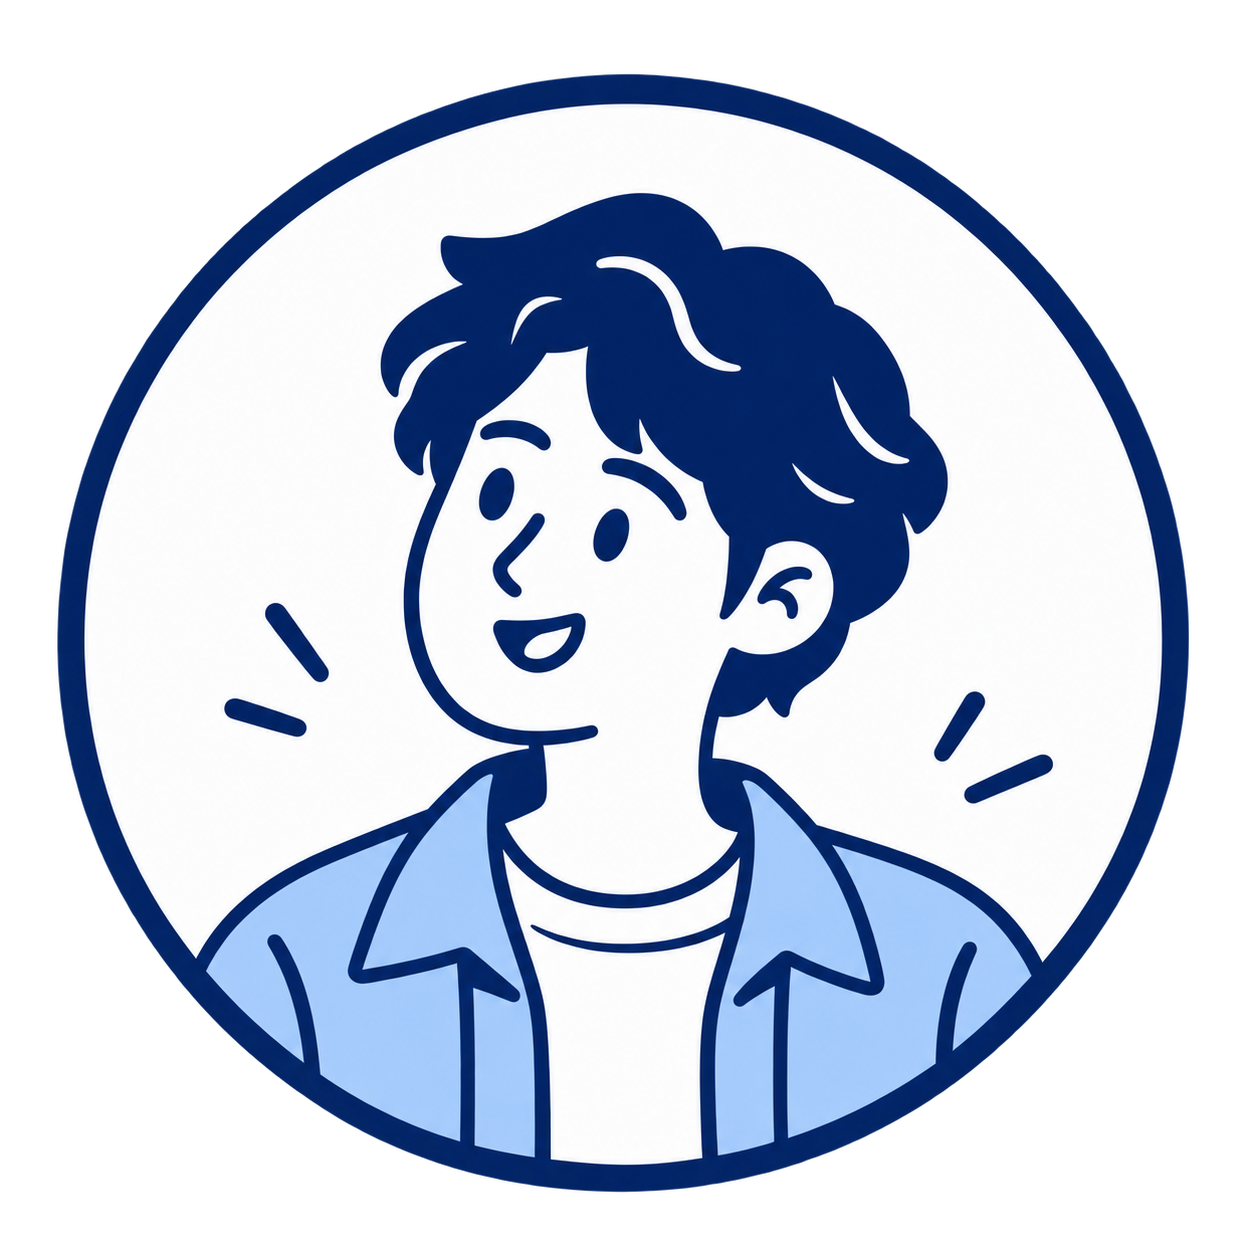
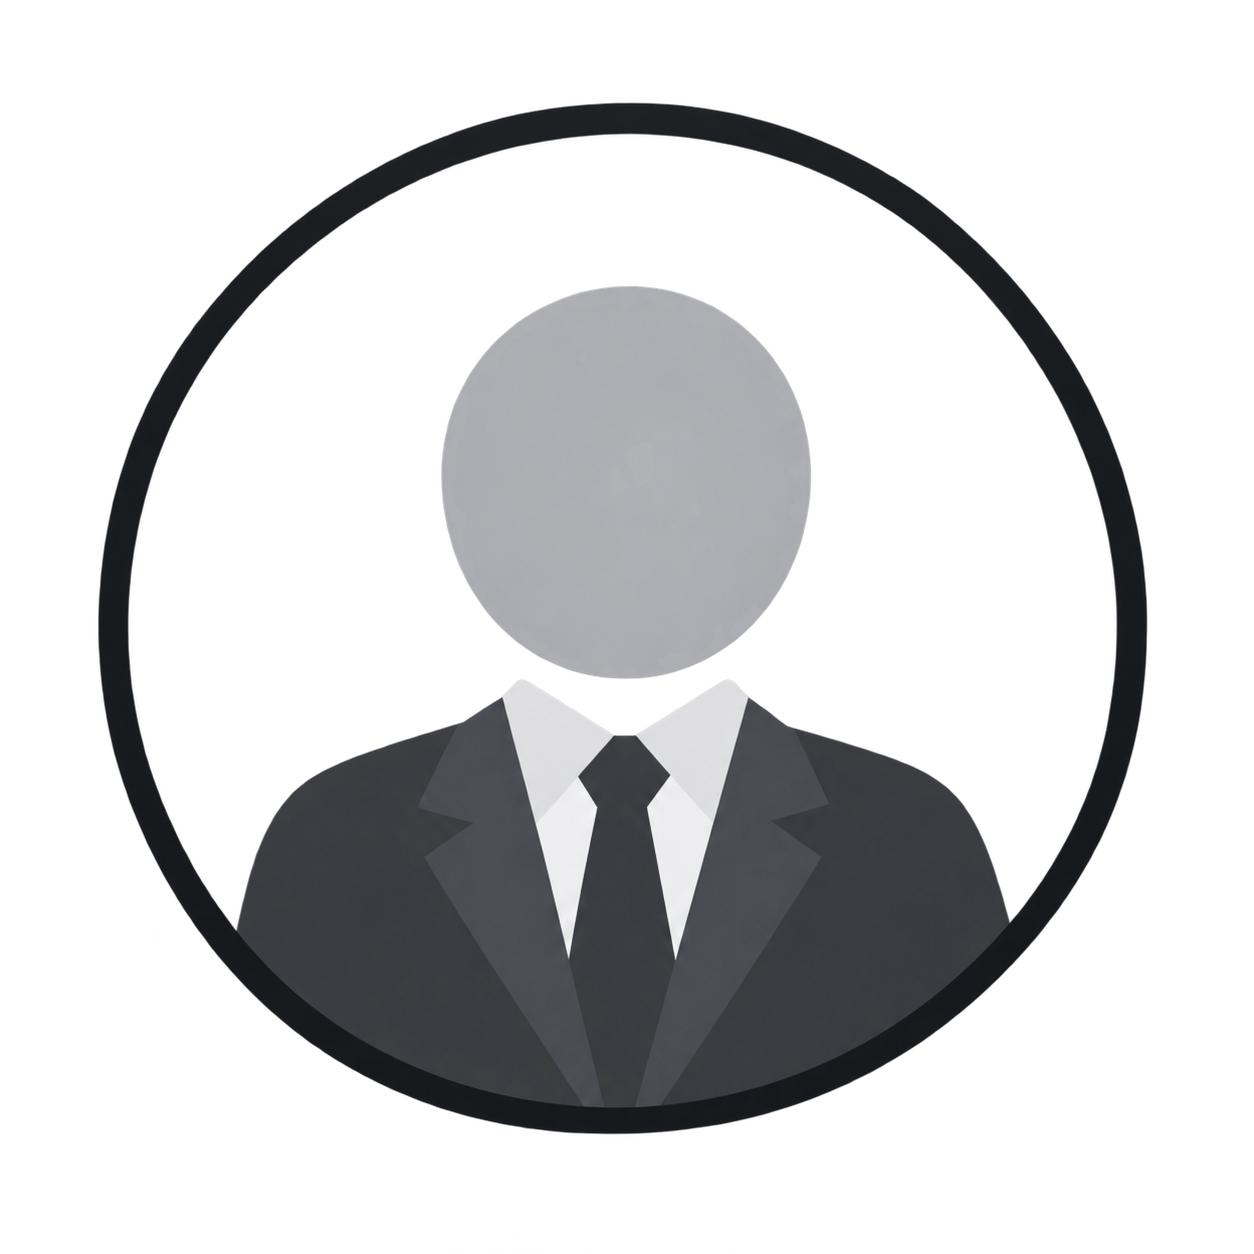
User profile, settings, tasks, files, and transactions navigation pages with associated assets

diff --git a/mobile_app/lib/mobile_app/more/settings_page.dart b/mobile_app/lib/mobile_app/more/settings_page.dart
@@ -4,6 +4,7 @@ import 'package:google_fonts/google_fonts.dart';
 import '../home/home_page.dart';
 import '../widgets/custom_bottom_nav_bar.dart';
 import 'two_factor_auth_page.dart';
+import '../authentication/signup_page.dart';
 class SettingsPage extends StatefulWidget {
   const SettingsPage({super.key});
 
@@ -155,49 +156,98 @@ class _SettingsPageState extends State<SettingsPage> {
     showDialog(
       context: context,
       builder: (context) {
-        return AlertDialog(
-          shape: RoundedRectangleBorder(
-            borderRadius: BorderRadius.circular(16),
-          ),
-          title: Text(
-            'Delete Account',
-            style: GoogleFonts.poppins(
-              fontWeight: FontWeight.bold,
-              color: Colors.red,
-            ),
-          ),
-          content: Text(
-            'Are you sure you want to permanently delete your account? This action cannot be undone.',
-            style: GoogleFonts.poppins(),
-          ),
-          actions: [
-            TextButton(
-              onPressed: () => Navigator.pop(context),
-              child: Text(
-                'Cancel',
-                style: GoogleFonts.poppins(color: Colors.grey.shade700),
-              ),
-            ),
-            ElevatedButton(
-              onPressed: () {
-                Navigator.pop(context);
-                ScaffoldMessenger.of(context).showSnackBar(
-                  SnackBar(
-                    content: Text(
-                      'Account deleted (Simulation)',
-                      style: GoogleFonts.poppins(),
+        return Dialog(
+          backgroundColor: Colors.transparent,
+          elevation: 0,
+          child: Stack(
+            clipBehavior: Clip.none,
+            alignment: Alignment.topCenter,
+            children: [
+              Container(
+                margin: const EdgeInsets.only(top: 26),
+                padding: const EdgeInsets.only(top: 32, left: 24, right: 24, bottom: 16),
+                decoration: BoxDecoration(
+                  color: Colors.white,
+                  borderRadius: BorderRadius.circular(8),
+                ),
+                child: Column(
+                  mainAxisSize: MainAxisSize.min,
+                  children: [
+                    Text(
+                      'Delete Account',
+                      style: GoogleFonts.poppins(
+                        fontWeight: FontWeight.bold,
+                        fontSize: 20,
+                        color: const Color(0xFF3B4058),
+                      ),
                     ),
-                    backgroundColor: Colors.red,
-                  ),
-                );
-              },
-              style: ElevatedButton.styleFrom(backgroundColor: Colors.red),
-              child: Text(
-                'Delete',
-                style: GoogleFonts.poppins(color: Colors.white),
+                    const SizedBox(height: 12),
+                    Text(
+                      'Are you certain you wish to permanently\ndelete your account?',
+                      textAlign: TextAlign.center,
+                      style: GoogleFonts.poppins(
+                        fontSize: 14,
+                        color: Colors.grey.shade600,
+                      ),
+                    ),
+                    const SizedBox(height: 32),
+                    Row(
+                      mainAxisAlignment: MainAxisAlignment.spaceBetween,
+                      children: [
+                        TextButton(
+                          onPressed: () => Navigator.pop(context),
+                          child: Text(
+                            'CANCEL',
+                            style: GoogleFonts.poppins(
+                              fontWeight: FontWeight.bold,
+                              color: const Color(0xFF3B4058),
+                            ),
+                          ),
+                        ),
+                        TextButton(
+                          onPressed: () {
+                            Navigator.pushAndRemoveUntil(
+                              context,
+                              MaterialPageRoute(
+                                builder: (context) => const SignupPage(),
+                              ),
+                              (route) => false,
+                            );
+                          },
+                          child: Text(
+                            'DELETE',
+                            style: GoogleFonts.poppins(
+                              fontWeight: FontWeight.bold,
+                              color: const Color(0xFFD3455B),
+                            ),
+                          ),
+                        ),
+                      ],
+                    ),
+                  ],
+                ),
               ),
-            ),
-          ],
+              Positioned(
+                top: 0,
+                child: Container(
+                  width: 52,
+                  height: 52,
+                  decoration: const BoxDecoration(
+                    color: Colors.white,
+                    shape: BoxShape.circle,
+                  ),
+                  child: Center(
+                    child: Image.asset(
+                      'assets/trashcan.png',
+                      width: 46,
+                      height: 46,
+                      fit: BoxFit.contain,
+                    ),
+                  ),
+                ),
+              ),
+            ],
+          ),
         );
       },
     );
@@ -399,7 +449,7 @@ class _SettingsPageState extends State<SettingsPage> {
                         side: BorderSide(color: Colors.grey.shade200),
                       ),
                       child: _buildListTile(
-                        icon: Icons.security_outlined,
+                        imagePath: 'assets/bin.png',
                         title: 'Delete account',
                         trailing: const Icon(
                           Icons.chevron_right,
@@ -425,7 +475,8 @@ class _SettingsPageState extends State<SettingsPage> {
   }
 
   Widget _buildListTile({
-    required IconData icon,
+    IconData? icon,
+    String? imagePath,
     required String title,
     String? subtitle,
     Widget? trailing,
@@ -438,7 +489,10 @@ class _SettingsPageState extends State<SettingsPage> {
         padding: const EdgeInsets.symmetric(horizontal: 16, vertical: 16),
         child: Row(
           children: [
-            Icon(icon, color: Colors.black, size: 28),
+            if (imagePath != null)
+              Image.asset(imagePath, width: 28, height: 28)
+            else if (icon != null)
+              Icon(icon, color: Colors.black, size: 28),
             const SizedBox(width: 16),
             Expanded(
               child: Column(

diff --git a/mobile_app/lib/mobile_app/tasks/document_needed_page.dart b/mobile_app/lib/mobile_app/tasks/document_needed_page.dart
@@ -2,9 +2,19 @@ import 'package:flutter/material.dart';
 import 'package:google_fonts/google_fonts.dart';
 import 'package:file_picker/file_picker.dart';
 import '../notifications/notifications_page.dart';
+import '../home/home_page.dart';
+import '../widgets/custom_bottom_nav_bar.dart';
 
 class DocumentNeededPage extends StatelessWidget {
   const DocumentNeededPage({super.key});
+
+  void _onItemTapped(BuildContext context, int index) {
+    if (index == 0) return;
+    Navigator.of(context).pushAndRemoveUntil(
+      MaterialPageRoute(builder: (context) => HomePage(initialIndex: index)),
+      (route) => false,
+    );
+  }
 
   @override
   Widget build(BuildContext context) {
@@ -80,8 +90,8 @@ class DocumentNeededPage extends StatelessWidget {
                       badgeBgColor: Colors.red[100]!,
                       badgeTextColor: Colors.red[800]!,
                       timeText: 'Due: 15 Oct 2026',
-                      progressText: 'Pending Upload',
-                      progressColor: Colors.red,
+                      progressText: '',
+                      progressColor: Colors.transparent,
                       title: 'Bank Statement (FY2026)',
                       subtitle: 'Please upload the latest bank statement.',
                       completedItems: const ['Request Received'],
@@ -92,8 +102,8 @@ class DocumentNeededPage extends StatelessWidget {
                       badgeBgColor: Colors.orange[100]!,
                       badgeTextColor: Colors.orange[800]!,
                       timeText: 'Due: 15 Oct 2026',
-                      progressText: 'Missing Details',
-                      progressColor: Colors.orange,
+                      progressText: '',
+                      progressColor: Colors.transparent,
                       title: 'Director Identity Card',
                       subtitle: 'Clear copy of NRIC or Passport.',
                       completedItems: const [],
@@ -105,6 +115,10 @@ class DocumentNeededPage extends StatelessWidget {
             ),
           ],
         ),
+      ),
+      bottomNavigationBar: CustomBottomNavBar(
+        currentIndex: 0,
+        onTap: (index) => _onItemTapped(context, index),
       ),
     );
   }
@@ -350,7 +364,7 @@ class _ExpandableDocumentCardState extends State<_ExpandableDocumentCard> {
                 ),
               ],
             ),
-            if (!_isExpanded)
+            if (!_isExpanded && widget.progressText.isNotEmpty)
               Align(
                 alignment: Alignment.bottomRight,
                 child: Text(

diff --git a/mobile_app/lib/mobile_app/files/attention_page.dart b/mobile_app/lib/mobile_app/files/attention_page.dart
@@ -2,9 +2,19 @@ import 'package:flutter/material.dart';
 import 'package:google_fonts/google_fonts.dart';
 import '../notifications/notifications_page.dart';
 import 'package:file_picker/file_picker.dart';
+import '../home/home_page.dart';
+import '../widgets/custom_bottom_nav_bar.dart';
 
 class AttentionPage extends StatelessWidget {
   const AttentionPage({super.key});
+
+  void _onItemTapped(BuildContext context, int index) {
+    if (index == 2) return;
+    Navigator.of(context).pushAndRemoveUntil(
+      MaterialPageRoute(builder: (context) => HomePage(initialIndex: index)),
+      (route) => false,
+    );
+  }
 
   @override
   Widget build(BuildContext context) {
@@ -80,8 +90,8 @@ class AttentionPage extends StatelessWidget {
                       badgeBgColor: Colors.red[100]!,
                       badgeTextColor: Colors.red[800]!,
                       timeText: 'Today, 09:00 AM',
-                      progressText: 'Pending Signature',
-                      progressColor: Colors.red,
+                      progressText: '',
+                      progressColor: Colors.transparent,
                       title: 'Director Resolution 2026',
                       completedItems: const [
                         'Document Uploaded',
@@ -112,6 +122,10 @@ class AttentionPage extends StatelessWidget {
             ),
           ],
         ),
+      ),
+      bottomNavigationBar: CustomBottomNavBar(
+        currentIndex: 2,
+        onTap: (index) => _onItemTapped(context, index),
       ),
     );
   }
@@ -244,7 +258,7 @@ class _ExpandableDocumentCardState extends State<_ExpandableDocumentCard> {
                 ),
               ],
             ),
-            if (!_isExpanded)
+            if (!_isExpanded && widget.progressText.isNotEmpty)
               Align(
                 alignment: Alignment.bottomRight,
                 child: Text(

diff --git a/mobile_app/lib/mobile_app/files/unsorted_page.dart b/mobile_app/lib/mobile_app/files/unsorted_page.dart
@@ -1,6 +1,8 @@
 import 'package:flutter/material.dart';
 import 'package:google_fonts/google_fonts.dart';
 import '../notifications/notifications_page.dart';
+import '../home/home_page.dart';
+import '../widgets/custom_bottom_nav_bar.dart';
 
 class UnsortedPage extends StatefulWidget {
   const UnsortedPage({super.key});
@@ -11,6 +13,15 @@ class UnsortedPage extends StatefulWidget {
 
 class _UnsortedPageState extends State<UnsortedPage> {
   bool _isSelectionMode = false;
+
+  void _onItemTapped(int index) {
+    if (index == 2) return;
+    Navigator.of(context).pushAndRemoveUntil(
+      MaterialPageRoute(builder: (context) => HomePage(initialIndex: index)),
+      (route) => false,
+    );
+  }
+
   final Set<int> _selectedIndices = {};
 
   final List<Map<String, String>> _files = [
@@ -242,7 +253,10 @@ class _UnsortedPageState extends State<UnsortedPage> {
                 ),
               ),
             )
-          : null,
+          : CustomBottomNavBar(
+              currentIndex: 2,
+              onTap: _onItemTapped,
+            ),
     );
   }
 

diff --git a/mobile_app/lib/mobile_app/tasks/replies_needed_page.dart b/mobile_app/lib/mobile_app/tasks/replies_needed_page.dart
@@ -1,9 +1,19 @@
 import 'package:flutter/material.dart';
 import 'package:google_fonts/google_fonts.dart';
 import '../notifications/notifications_page.dart';
+import '../home/home_page.dart';
+import '../widgets/custom_bottom_nav_bar.dart';
 
 class RepliesNeededPage extends StatelessWidget {
   const RepliesNeededPage({super.key});
+
+  void _onItemTapped(BuildContext context, int index) {
+    if (index == 0) return;
+    Navigator.of(context).pushAndRemoveUntil(
+      MaterialPageRoute(builder: (context) => HomePage(initialIndex: index)),
+      (route) => false,
+    );
+  }
 
   @override
   Widget build(BuildContext context) {
@@ -106,6 +116,10 @@ class RepliesNeededPage extends StatelessWidget {
             ),
           ],
         ),
+      ),
+      bottomNavigationBar: CustomBottomNavBar(
+        currentIndex: 0,
+        onTap: (index) => _onItemTapped(context, index),
       ),
     );
   }

diff --git a/mobile_app/lib/mobile_app/transactions/transactions_page.dart b/mobile_app/lib/mobile_app/transactions/transactions_page.dart
@@ -425,7 +425,7 @@ class _TransactionsPageState extends State<TransactionsPage> {
                                         return Theme(
                                           data: Theme.of(context).copyWith(
                                             colorScheme: const ColorScheme.light(
-                                              primary: const Color(0xFF062AAE),
+                                              primary: Color(0xFF062AAE),
                                             ),
                                           ),
                                           child: child!,

diff --git a/mobile_app/lib/mobile_app/more/profile_page.dart b/mobile_app/lib/mobile_app/more/profile_page.dart
@@ -395,7 +395,9 @@ class _ProfilePageState extends State<ProfilePage> {
                                     int.parse(parts[0]),
                                   );
                                 }
-                              } catch (e) {}
+                              } catch (e) {
+                                // Fallback to current date on parsing error
+                              }
                             }
                             final DateTime? picked = await showDatePicker(
                               context: context,
